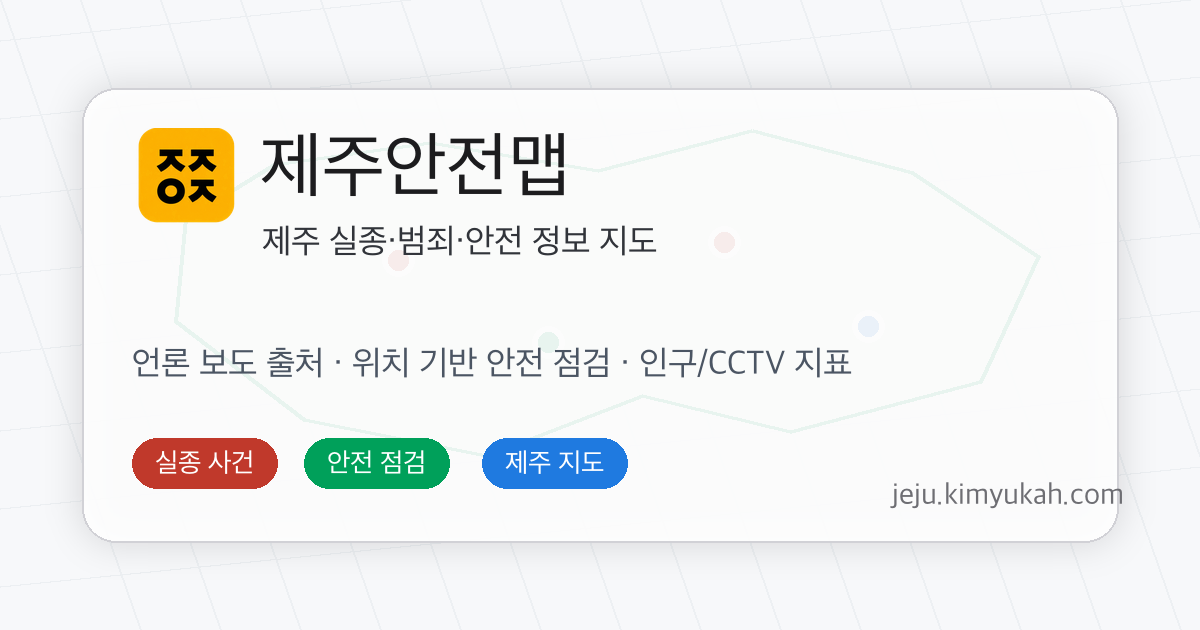
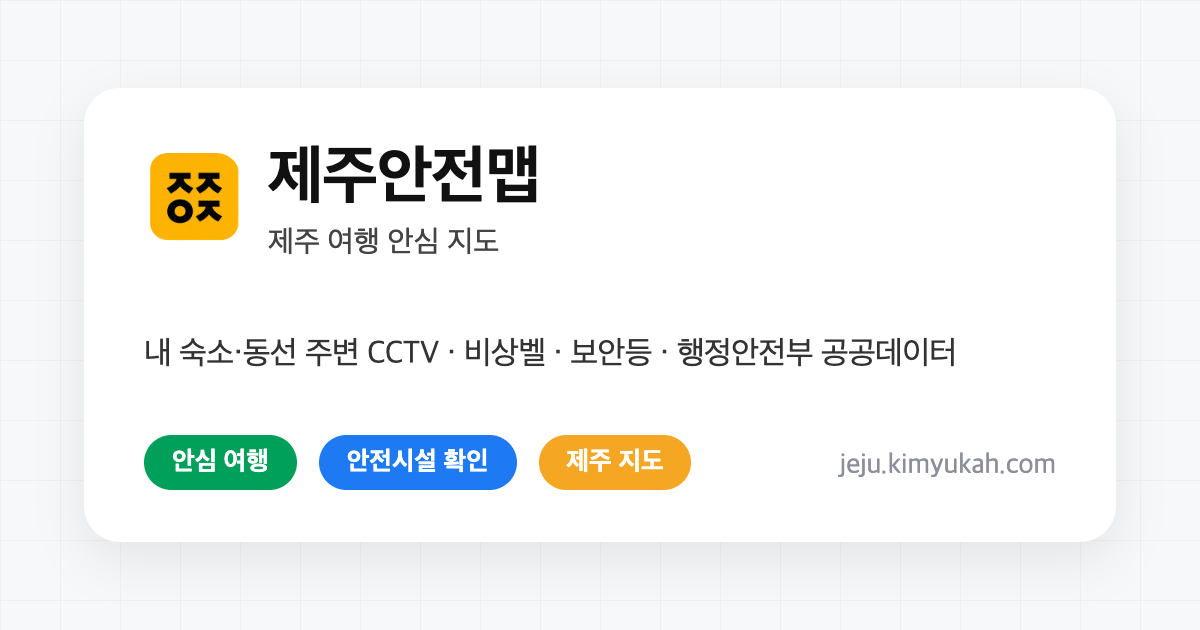
안심 프레임 마무리: OG 이미지 교체, 카드 정보 순서 시설 우선, CCTV 확대 시 표시
- OG 이미지를 "실종·범죄" 문구에서 "제주 여행 안심 지도" 톤으로 재제작 (?v=3 캐시 버스트)
- 숙소 점검 카드 행 순서를 비상벨·보안등·편의점 우선으로 재배치
- CCTV 기본 켜짐에 맞춰 확대 시에만 오버레이를 그려 모바일 성능 보호
- webmanifest·README 설명도 안전시설 중심 문구로 교체

diff --git a/index.html b/index.html
@@ -22,8 +22,8 @@
 <meta property="og:url" content="https://jeju.kimyukah.com/">
 <meta property="og:title" content="제주안전맵 - 제주 여행 안심 지도">
 <meta property="og:description" content="내 숙소와 동선 주변의 CCTV·비상벨·보안등 위치를 공공데이터로 확인하고 더 안심하고 여행하세요.">
-<meta property="og:image" content="https://jeju.kimyukah.com/assets/og-image.png">
-<meta property="og:image:secure_url" content="https://jeju.kimyukah.com/assets/og-image.png">
+<meta property="og:image" content="https://jeju.kimyukah.com/assets/og-image.png?v=3">
+<meta property="og:image:secure_url" content="https://jeju.kimyukah.com/assets/og-image.png?v=3">
 <meta property="og:image:type" content="image/png">
 <meta property="og:image:width" content="1200">
 <meta property="og:image:height" content="630">
@@ -33,13 +33,13 @@
 <meta name="twitter:card" content="summary_large_image">
 <meta name="twitter:title" content="제주안전맵 - 제주 여행 안심 지도">
 <meta name="twitter:description" content="내 숙소와 동선 주변의 CCTV·비상벨·보안등 위치를 공공데이터로 확인하세요.">
-<meta name="twitter:image" content="https://jeju.kimyukah.com/assets/og-image.png">
+<meta name="twitter:image" content="https://jeju.kimyukah.com/assets/og-image.png?v=3">
 <meta name="twitter:image:alt" content="제주안전맵 - 제주 여행 안심 지도">
 <meta name="twitter:domain" content="jeju.kimyukah.com">
 <meta name="twitter:url" content="https://jeju.kimyukah.com/">
 <meta name="kakao:title" content="제주안전맵 - 제주 여행 안심 지도">
 <meta name="kakao:description" content="내 숙소와 동선 주변의 CCTV·비상벨·보안등 위치를 공공데이터로 확인하세요.">
-<meta name="kakao:image" content="https://jeju.kimyukah.com/assets/og-image.png">
+<meta name="kakao:image" content="https://jeju.kimyukah.com/assets/og-image.png?v=3">
 <script type="application/ld+json">
 {
   "@context": "https://schema.org",
@@ -51,7 +51,7 @@
   "applicationCategory": "MapApplication",
   "operatingSystem": "Web",
   "inLanguage": "ko-KR",
-  "image": "https://jeju.kimyukah.com/assets/og-image.png",
+  "image": "https://jeju.kimyukah.com/assets/og-image.png?v=3",
   "creator": {
     "@type": "Person",
     "name": "김육아",
@@ -505,6 +505,7 @@ body { font-family:-apple-system,"Apple SD Gothic Neo","Pretendard",sans-serif; 
 
 <div class="chips">
   <button class="chip" id="chip-cctv" hidden>공공 CCTV</button>
+  <button class="chip" id="chip-light" hidden>보안등</button>
   <button class="chip on" id="chip-pop" hidden>유동인구</button>
   <button class="chip" id="chip-incident">실종 사건</button>
   <button class="chip" id="chip-crime" hidden>범죄주의구간</button>
@@ -569,7 +570,7 @@ body { font-family:-apple-system,"Apple SD Gothic Neo","Pretendard",sans-serif; 
   <div class="legend" id="cctv-legend" hidden>
     <b class="legend-title">공공 CCTV <small>행정안전부 표준데이터</small></b>
     <div><span class="legend-cctv-icon" aria-hidden="true"><svg viewBox="0 0 24 24"><path d="M4 7.5A2.5 2.5 0 0 1 6.5 5h7A2.5 2.5 0 0 1 16 7.5v9a2.5 2.5 0 0 1-2.5 2.5h-7A2.5 2.5 0 0 1 4 16.5v-9Z" fill="none" stroke="currentColor" stroke-width="2"/><path d="m16 10 4-2.5v9L16 14" fill="none" stroke="currentColor" stroke-width="2" stroke-linejoin="round"/></svg></span>공공 CCTV 위치</div>
-    <div class="sub-note">방범·교통·시설물·재난 목적을 함께 표시합니다.</div>
+    <div class="sub-note">방범·교통·시설물·재난 목적을 함께 표시합니다.<br>지도를 확대하면 위치가 나타납니다.</div>
   </div>
   <button class="legend-toggle" id="legend-toggle" type="button" aria-expanded="true">ⓘ 범례</button>
 </div>
@@ -1191,11 +1192,11 @@ function renderSafetyCard(loc, cfg, moveToLocation) {
           <b style="color:${incidents.alert ? 'var(--accent)' : 'inherit'}">${incidents.nearby.length ? incidents.nearby.length + '건' : '없음'}</b>
           <small>${incidents.nearby.length ? '최근접 ' + incidents.nearby[0].km.toFixed(1) + 'km' : '언론 보도 확인 기준'}</small></div>
       </div>
-      <div class="row"><span>하루 유동인구 (${escapeHtml(region.name)})</span><b>약 ${region.total.toLocaleString()}명</b></div>
-      <div class="row"><span>범죄주의구간 (최근 1년 신고 밀집)</span><b id="crime-row">확인 중…</b></div>
-      <div class="row"><span>도보권 편의점 (500m)</span><b id="cs-row">확인 중…</b></div>
       ${state.bells ? `<div class="row"><span>안전비상벨 (500m)</span><b>${nearbyPointCount(state.bells, loc, 0.5) || '없음'}${nearbyPointCount(state.bells, loc, 0.5) ? '개' : ''}</b></div>` : ''}
       ${state.lights ? `<div class="row"><span>보안등 (500m)</span><b>${nearbyPointCount(state.lights, loc, 0.5) || '없음'}${nearbyPointCount(state.lights, loc, 0.5) ? '개' : ''}</b></div>` : ''}
+      <div class="row"><span>도보권 편의점 (500m)</span><b id="cs-row">확인 중…</b></div>
+      <div class="row"><span>하루 유동인구 (${escapeHtml(region.name)})</span><b>약 ${region.total.toLocaleString()}명</b></div>
+      <div class="row"><span>범죄주의구간 (최근 1년 신고 밀집)</span><b id="crime-row">확인 중…</b></div>
       ${incidents.nearby.length ? `
       <details class="card-more">
         <summary>보도 확인 사건 ${incidents.nearby.length}건 자세히</summary>
@@ -1721,10 +1722,12 @@ async function initKakao(cfg) {
       });
       return { ov, el, count };
     });
+    // 1000개 넘는 오버레이를 도 전체 뷰에 다 그리면 모바일이 버벅여서, 확대했을 때만 표시
     const relabelCctv = () => {
+      const visible = cctvOn && map.getLevel() <= 9;
       const close = map.getLevel() <= 7;
       overlays.forEach(({ ov, el, count }) => {
-        if (cctvOn) ov.setMap(map);
+        ov.setMap(visible ? map : null);
         el.innerHTML = cctvIconHtml(count, close);
         el.classList.toggle('count', close);
       });

diff --git a/README.md b/README.md
@@ -1,3 +1,3 @@
 # jeju-safety-map
 
-제주 실종·범죄 정보를 지도로 보여주는 안전지도 서비스. 기획은 docs/기획서.md 참고.
+CCTV·비상벨·보안등 등 안전시설을 공공데이터로 보여주는 제주 여행 안심 지도 서비스. 기획은 docs/기획서.md 참고.
